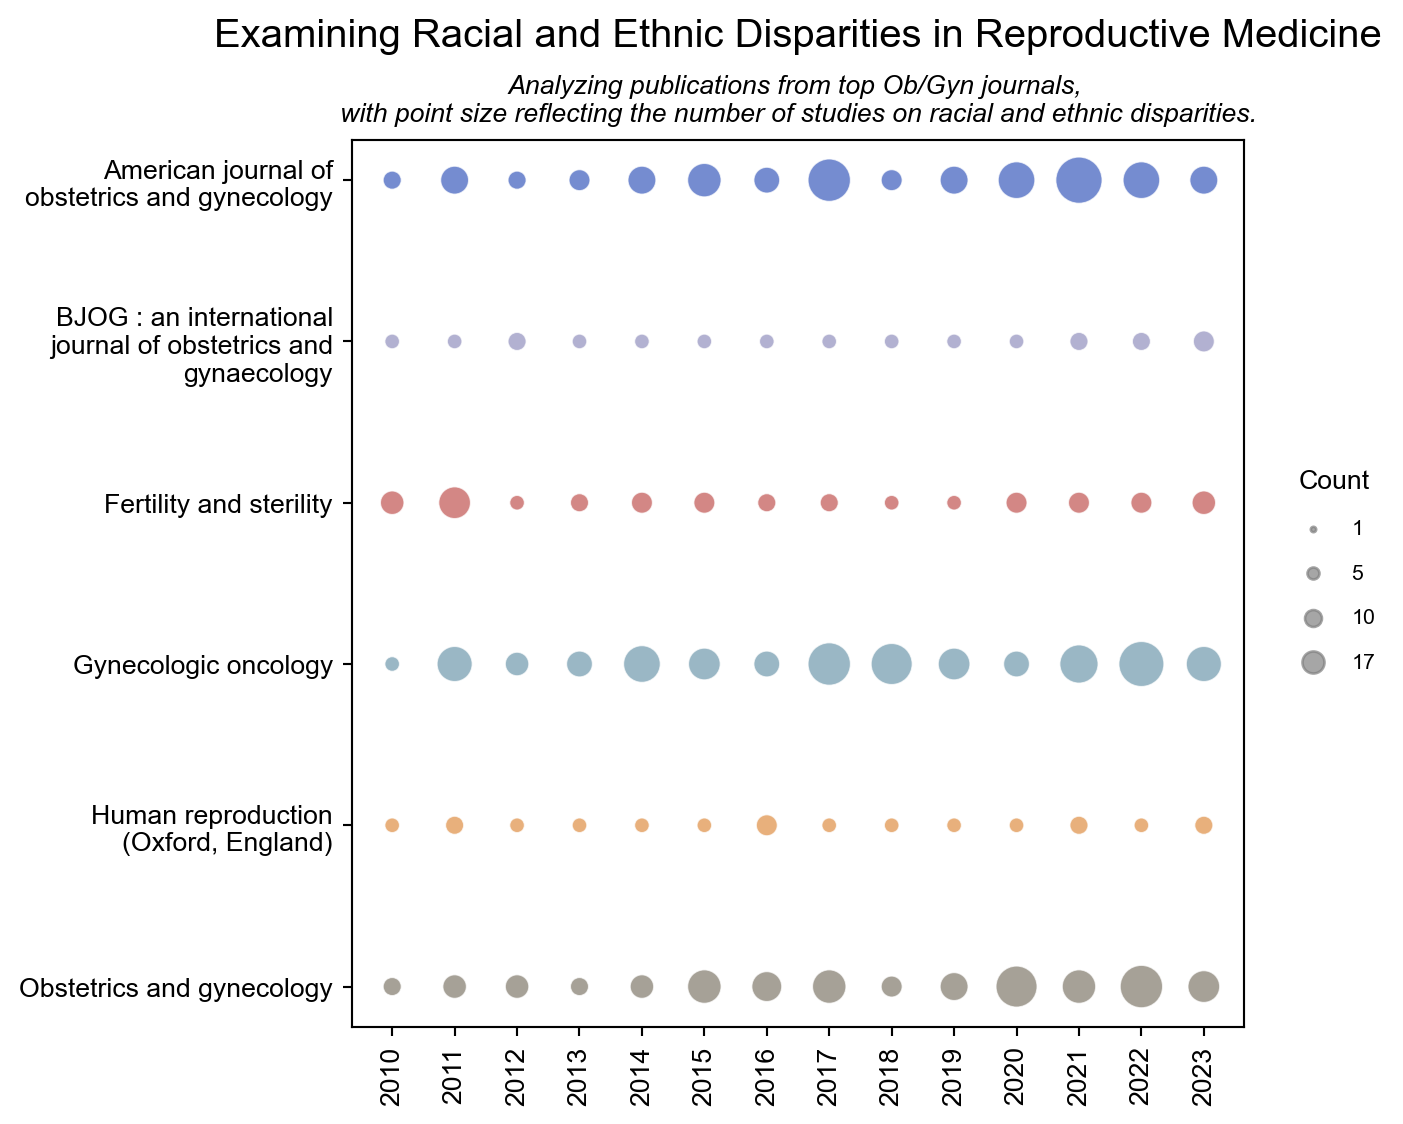
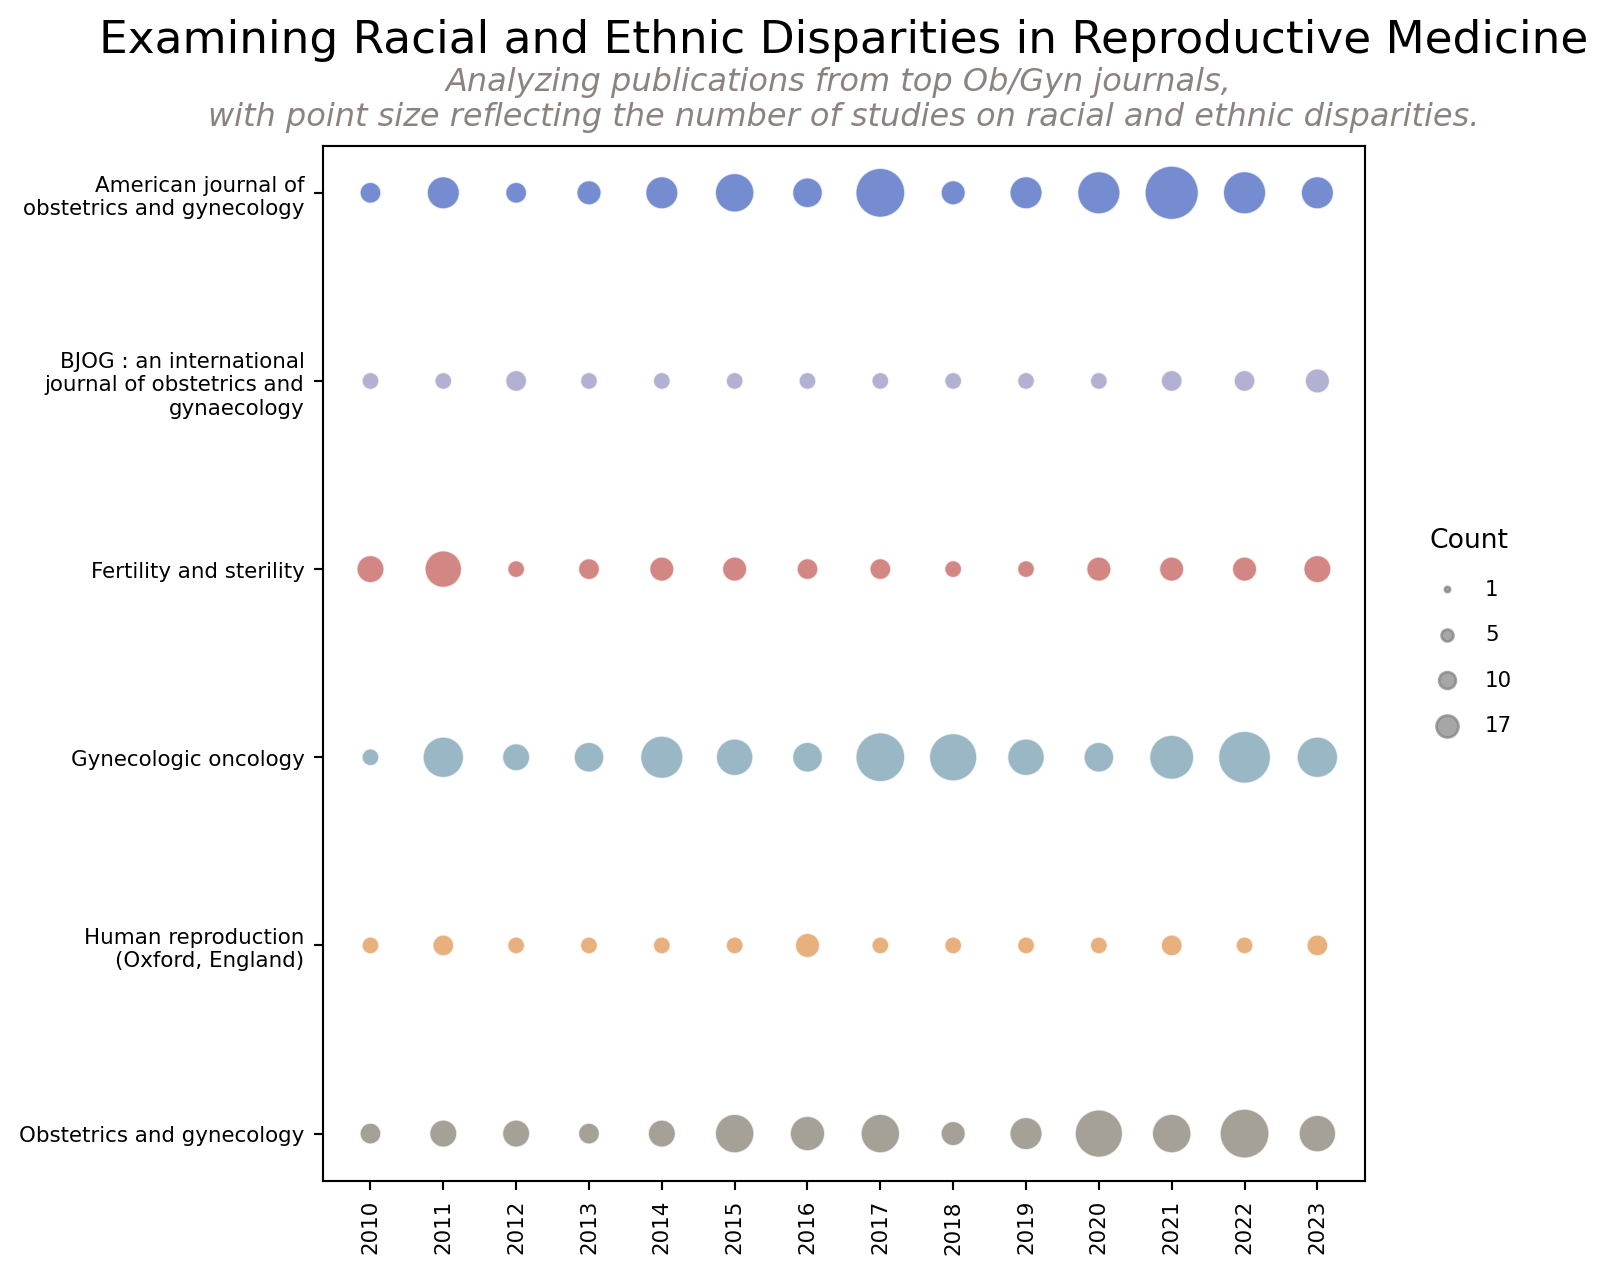
save

diff --git a/20250225/20250225.html b/20250225/20250225.html
@@ -97,7 +97,7 @@ pre > code.sourceCode > span > a:first-child::before { text-decoration: underlin
 </header>
 
 
-<div id="88d33581" class="cell" data-execution_count="1">
+<div id="85ff9130" class="cell" data-execution_count="1">
 <div class="sourceCode cell-code" id="cb1"><pre class="sourceCode python code-with-copy"><code class="sourceCode python"><span id="cb1-1"><a href="#cb1-1" aria-hidden="true" tabindex="-1"></a><span class="im">import</span> pandas <span class="im">as</span> pd</span>
 <span id="cb1-2"><a href="#cb1-2" aria-hidden="true" tabindex="-1"></a><span class="im">import</span> matplotlib.pyplot <span class="im">as</span> plt</span>
 <span id="cb1-3"><a href="#cb1-3" aria-hidden="true" tabindex="-1"></a><span class="im">import</span> seaborn <span class="im">as</span> sns</span>
@@ -105,11 +105,9 @@ pre > code.sourceCode > span > a:first-child::before { text-decoration: underlin
 <span id="cb1-5"><a href="#cb1-5" aria-hidden="true" tabindex="-1"></a></span>
 <span id="cb1-6"><a href="#cb1-6" aria-hidden="true" tabindex="-1"></a><span class="co"># Load the data </span></span>
 <span id="cb1-7"><a href="#cb1-7" aria-hidden="true" tabindex="-1"></a></span>
-<span id="cb1-8"><a href="#cb1-8" aria-hidden="true" tabindex="-1"></a>df <span class="op">=</span> pd.read_csv(<span class="st">'https://raw.githubusercontent.com/rfordatascience/tidytuesday/main/data/2025/2025-02-25/article_dat.csv'</span>)</span>
-<span id="cb1-9"><a href="#cb1-9" aria-hidden="true" tabindex="-1"></a></span>
-<span id="cb1-10"><a href="#cb1-10" aria-hidden="true" tabindex="-1"></a><span class="co"># model_dat = pd.read_csv('https://raw.githubusercontent.com/rfordatascience/tidytuesday/main/data/2025/2025-02-25/model_dat.csv')</span></span></code><button title="Copy to Clipboard" class="code-copy-button"><i class="bi"></i></button></pre></div>
+<span id="cb1-8"><a href="#cb1-8" aria-hidden="true" tabindex="-1"></a>df <span class="op">=</span> pd.read_csv(<span class="st">'https://raw.githubusercontent.com/rfordatascience/tidytuesday/main/data/2025/2025-02-25/article_dat.csv'</span>)</span></code><button title="Copy to Clipboard" class="code-copy-button"><i class="bi"></i></button></pre></div>
 </div>
-<div id="52529ed1" class="cell" data-execution_count="2">
+<div id="3438b613" class="cell" data-execution_count="2">
 <div class="sourceCode cell-code" id="cb2"><pre class="sourceCode python code-with-copy"><code class="sourceCode python"><span id="cb2-1"><a href="#cb2-1" aria-hidden="true" tabindex="-1"></a><span class="co"># Clean data</span></span>
 <span id="cb2-2"><a href="#cb2-2" aria-hidden="true" tabindex="-1"></a>pub_trends <span class="op">=</span> df.groupby([<span class="st">'year'</span>, <span class="st">'journal'</span>]).size().unstack(fill_value<span class="op">=</span><span class="dv">0</span>)</span>
 <span id="cb2-3"><a href="#cb2-3" aria-hidden="true" tabindex="-1"></a>df_flat <span class="op">=</span> pub_trends.reset_index()</span>
@@ -122,69 +120,72 @@ pre > code.sourceCode > span > a:first-child::before { text-decoration: underlin
 <span id="cb2-10"><a href="#cb2-10" aria-hidden="true" tabindex="-1"></a></span>
 <span id="cb2-11"><a href="#cb2-11" aria-hidden="true" tabindex="-1"></a>my_col <span class="op">=</span> [<span class="st">'#3a5cbc'</span>, <span class="st">'#9291be'</span>, <span class="st">'#c15451'</span>, <span class="st">'#6F99AD'</span>, <span class="st">'#DF8F44'</span>, <span class="st">'#80796B'</span>]</span>
 <span id="cb2-12"><a href="#cb2-12" aria-hidden="true" tabindex="-1"></a></span>
-<span id="cb2-13"><a href="#cb2-13" aria-hidden="true" tabindex="-1"></a><span class="co"># Plot</span></span>
-<span id="cb2-14"><a href="#cb2-14" aria-hidden="true" tabindex="-1"></a>plt.rcParams[<span class="st">"font.family"</span>] <span class="op">=</span> <span class="st">"Arial"</span></span>
-<span id="cb2-15"><a href="#cb2-15" aria-hidden="true" tabindex="-1"></a></span>
+<span id="cb2-13"><a href="#cb2-13" aria-hidden="true" tabindex="-1"></a></span>
+<span id="cb2-14"><a href="#cb2-14" aria-hidden="true" tabindex="-1"></a><span class="co"># Plot</span></span>
+<span id="cb2-15"><a href="#cb2-15" aria-hidden="true" tabindex="-1"></a>plt.figure(figsize<span class="op">=</span>(<span class="dv">7</span>,<span class="dv">7</span>))</span>
 <span id="cb2-16"><a href="#cb2-16" aria-hidden="true" tabindex="-1"></a></span>
-<span id="cb2-17"><a href="#cb2-17" aria-hidden="true" tabindex="-1"></a>plt.figure(figsize<span class="op">=</span>(<span class="dv">6</span>,<span class="dv">6</span>))</span>
-<span id="cb2-18"><a href="#cb2-18" aria-hidden="true" tabindex="-1"></a></span>
-<span id="cb2-19"><a href="#cb2-19" aria-hidden="true" tabindex="-1"></a>sns.scatterplot(</span>
-<span id="cb2-20"><a href="#cb2-20" aria-hidden="true" tabindex="-1"></a>    data <span class="op">=</span> df_melted, </span>
-<span id="cb2-21"><a href="#cb2-21" aria-hidden="true" tabindex="-1"></a>    x <span class="op">=</span> <span class="st">"year"</span>, </span>
-<span id="cb2-22"><a href="#cb2-22" aria-hidden="true" tabindex="-1"></a>    y <span class="op">=</span> <span class="st">"journal_wrapped"</span>, </span>
-<span id="cb2-23"><a href="#cb2-23" aria-hidden="true" tabindex="-1"></a>    size <span class="op">=</span> <span class="st">"count"</span>, </span>
-<span id="cb2-24"><a href="#cb2-24" aria-hidden="true" tabindex="-1"></a>    sizes <span class="op">=</span> (<span class="dv">30</span>, <span class="dv">300</span>), </span>
-<span id="cb2-25"><a href="#cb2-25" aria-hidden="true" tabindex="-1"></a>    alpha <span class="op">=</span> <span class="fl">0.7</span>,</span>
-<span id="cb2-26"><a href="#cb2-26" aria-hidden="true" tabindex="-1"></a>    hue <span class="op">=</span> <span class="st">"journal"</span>, </span>
-<span id="cb2-27"><a href="#cb2-27" aria-hidden="true" tabindex="-1"></a>    palette <span class="op">=</span> my_col,</span>
-<span id="cb2-28"><a href="#cb2-28" aria-hidden="true" tabindex="-1"></a>    legend <span class="op">=</span> <span class="va">False</span></span>
-<span id="cb2-29"><a href="#cb2-29" aria-hidden="true" tabindex="-1"></a>)</span>
-<span id="cb2-30"><a href="#cb2-30" aria-hidden="true" tabindex="-1"></a></span>
-<span id="cb2-31"><a href="#cb2-31" aria-hidden="true" tabindex="-1"></a><span class="co"># Add labels and title</span></span>
-<span id="cb2-32"><a href="#cb2-32" aria-hidden="true" tabindex="-1"></a>plt.xlabel(<span class="st">""</span>)</span>
-<span id="cb2-33"><a href="#cb2-33" aria-hidden="true" tabindex="-1"></a>plt.ylabel(<span class="st">""</span>)</span>
-<span id="cb2-34"><a href="#cb2-34" aria-hidden="true" tabindex="-1"></a>plt.title(</span>
-<span id="cb2-35"><a href="#cb2-35" aria-hidden="true" tabindex="-1"></a>    <span class="st">"Examining Racial and Ethnic Disparities in Reproductive Medicine"</span>, </span>
-<span id="cb2-36"><a href="#cb2-36" aria-hidden="true" tabindex="-1"></a>    fontsize <span class="op">=</span> <span class="dv">15</span>,</span>
-<span id="cb2-37"><a href="#cb2-37" aria-hidden="true" tabindex="-1"></a>    pad <span class="op">=</span> <span class="dv">35</span>,</span>
-<span id="cb2-38"><a href="#cb2-38" aria-hidden="true" tabindex="-1"></a>    x <span class="op">=</span> <span class="fl">0.5</span></span>
-<span id="cb2-39"><a href="#cb2-39" aria-hidden="true" tabindex="-1"></a>    )</span>
-<span id="cb2-40"><a href="#cb2-40" aria-hidden="true" tabindex="-1"></a></span>
-<span id="cb2-41"><a href="#cb2-41" aria-hidden="true" tabindex="-1"></a><span class="co"># Add the subtitle for clarification</span></span>
-<span id="cb2-42"><a href="#cb2-42" aria-hidden="true" tabindex="-1"></a>plt.text(x <span class="op">=</span> <span class="fl">0.5</span>, y <span class="op">=</span> <span class="fl">1.045</span>, </span>
-<span id="cb2-43"><a href="#cb2-43" aria-hidden="true" tabindex="-1"></a>        s <span class="op">=</span> <span class="st">"Analyzing publications from top Ob/Gyn journals, </span><span class="ch">\n</span><span class="st">with point size reflecting the number of studies on racial and ethnic disparities."</span>, </span>
-<span id="cb2-44"><a href="#cb2-44" aria-hidden="true" tabindex="-1"></a>        ha <span class="op">=</span> <span class="st">'center'</span>, va <span class="op">=</span> <span class="st">'center'</span>, fontsize <span class="op">=</span> <span class="dv">10</span>, style <span class="op">=</span> <span class="st">'italic'</span>, transform <span class="op">=</span> plt.gca().transAxes)</span>
-<span id="cb2-45"><a href="#cb2-45" aria-hidden="true" tabindex="-1"></a></span>
-<span id="cb2-46"><a href="#cb2-46" aria-hidden="true" tabindex="-1"></a></span>
-<span id="cb2-47"><a href="#cb2-47" aria-hidden="true" tabindex="-1"></a><span class="co"># Create dummy scatter plot points for the size legend</span></span>
-<span id="cb2-48"><a href="#cb2-48" aria-hidden="true" tabindex="-1"></a>legend_sizes <span class="op">=</span> [<span class="dv">1</span>, <span class="dv">5</span>, <span class="dv">10</span>, <span class="dv">17</span>]  <span class="co"># Example sizes for the legend</span></span>
+<span id="cb2-17"><a href="#cb2-17" aria-hidden="true" tabindex="-1"></a>sns.scatterplot(</span>
+<span id="cb2-18"><a href="#cb2-18" aria-hidden="true" tabindex="-1"></a>    data <span class="op">=</span> df_melted, </span>
+<span id="cb2-19"><a href="#cb2-19" aria-hidden="true" tabindex="-1"></a>    x <span class="op">=</span> <span class="st">"year"</span>, </span>
+<span id="cb2-20"><a href="#cb2-20" aria-hidden="true" tabindex="-1"></a>    y <span class="op">=</span> <span class="st">"journal_wrapped"</span>, </span>
+<span id="cb2-21"><a href="#cb2-21" aria-hidden="true" tabindex="-1"></a>    size <span class="op">=</span> <span class="st">"count"</span>, </span>
+<span id="cb2-22"><a href="#cb2-22" aria-hidden="true" tabindex="-1"></a>    sizes <span class="op">=</span> (<span class="dv">40</span>, <span class="dv">400</span>), </span>
+<span id="cb2-23"><a href="#cb2-23" aria-hidden="true" tabindex="-1"></a>    alpha <span class="op">=</span> <span class="fl">0.7</span>,</span>
+<span id="cb2-24"><a href="#cb2-24" aria-hidden="true" tabindex="-1"></a>    hue <span class="op">=</span> <span class="st">"journal"</span>, </span>
+<span id="cb2-25"><a href="#cb2-25" aria-hidden="true" tabindex="-1"></a>    palette <span class="op">=</span> my_col,</span>
+<span id="cb2-26"><a href="#cb2-26" aria-hidden="true" tabindex="-1"></a>    legend <span class="op">=</span> <span class="va">False</span></span>
+<span id="cb2-27"><a href="#cb2-27" aria-hidden="true" tabindex="-1"></a>)</span>
+<span id="cb2-28"><a href="#cb2-28" aria-hidden="true" tabindex="-1"></a></span>
+<span id="cb2-29"><a href="#cb2-29" aria-hidden="true" tabindex="-1"></a><span class="co"># Add labels and title</span></span>
+<span id="cb2-30"><a href="#cb2-30" aria-hidden="true" tabindex="-1"></a>plt.xlabel(<span class="st">""</span>)</span>
+<span id="cb2-31"><a href="#cb2-31" aria-hidden="true" tabindex="-1"></a>plt.ylabel(<span class="st">""</span>)</span>
+<span id="cb2-32"><a href="#cb2-32" aria-hidden="true" tabindex="-1"></a>plt.title(</span>
+<span id="cb2-33"><a href="#cb2-33" aria-hidden="true" tabindex="-1"></a>    <span class="st">"Examining Racial and Ethnic Disparities in Reproductive Medicine"</span>, </span>
+<span id="cb2-34"><a href="#cb2-34" aria-hidden="true" tabindex="-1"></a>    fontsize <span class="op">=</span> <span class="dv">17</span>,</span>
+<span id="cb2-35"><a href="#cb2-35" aria-hidden="true" tabindex="-1"></a>    pad <span class="op">=</span> <span class="dv">35</span>,</span>
+<span id="cb2-36"><a href="#cb2-36" aria-hidden="true" tabindex="-1"></a>    x <span class="op">=</span> <span class="fl">0.5</span></span>
+<span id="cb2-37"><a href="#cb2-37" aria-hidden="true" tabindex="-1"></a>    )</span>
+<span id="cb2-38"><a href="#cb2-38" aria-hidden="true" tabindex="-1"></a></span>
+<span id="cb2-39"><a href="#cb2-39" aria-hidden="true" tabindex="-1"></a><span class="co"># Add the subtitle for clarification</span></span>
+<span id="cb2-40"><a href="#cb2-40" aria-hidden="true" tabindex="-1"></a>plt.text(x <span class="op">=</span> <span class="fl">0.5</span>, y <span class="op">=</span> <span class="fl">1.045</span>, </span>
+<span id="cb2-41"><a href="#cb2-41" aria-hidden="true" tabindex="-1"></a>        s <span class="op">=</span> <span class="st">"Analyzing publications from top Ob/Gyn journals, </span><span class="ch">\n</span><span class="st">with point size reflecting the number of studies on racial and ethnic disparities."</span>, </span>
+<span id="cb2-42"><a href="#cb2-42" aria-hidden="true" tabindex="-1"></a>        ha <span class="op">=</span> <span class="st">'center'</span>, </span>
+<span id="cb2-43"><a href="#cb2-43" aria-hidden="true" tabindex="-1"></a>        va <span class="op">=</span> <span class="st">'center'</span>, </span>
+<span id="cb2-44"><a href="#cb2-44" aria-hidden="true" tabindex="-1"></a>        fontsize <span class="op">=</span> <span class="dv">12</span>, </span>
+<span id="cb2-45"><a href="#cb2-45" aria-hidden="true" tabindex="-1"></a>        style <span class="op">=</span> <span class="st">'italic'</span>, </span>
+<span id="cb2-46"><a href="#cb2-46" aria-hidden="true" tabindex="-1"></a>        color <span class="op">=</span> <span class="st">"#8C8380"</span>,</span>
+<span id="cb2-47"><a href="#cb2-47" aria-hidden="true" tabindex="-1"></a>        transform <span class="op">=</span> plt.gca().transAxes)</span>
+<span id="cb2-48"><a href="#cb2-48" aria-hidden="true" tabindex="-1"></a></span>
 <span id="cb2-49"><a href="#cb2-49" aria-hidden="true" tabindex="-1"></a></span>
-<span id="cb2-50"><a href="#cb2-50" aria-hidden="true" tabindex="-1"></a><span class="co"># These dummy scatter points are used to create the legend for sizes</span></span>
-<span id="cb2-51"><a href="#cb2-51" aria-hidden="true" tabindex="-1"></a><span class="cf">for</span> size <span class="kw">in</span> legend_sizes:</span>
-<span id="cb2-52"><a href="#cb2-52" aria-hidden="true" tabindex="-1"></a>    plt.scatter([], [], s <span class="op">=</span> size, color <span class="op">=</span> <span class="st">'grey'</span>, alpha <span class="op">=</span> <span class="fl">0.7</span>, label <span class="op">=</span> <span class="ss">f'</span><span class="sc">{</span>size<span class="sc">}</span><span class="ss">'</span>)</span>
-<span id="cb2-53"><a href="#cb2-53" aria-hidden="true" tabindex="-1"></a></span>
-<span id="cb2-54"><a href="#cb2-54" aria-hidden="true" tabindex="-1"></a><span class="co"># Add custom legend for the size (publication count)</span></span>
-<span id="cb2-55"><a href="#cb2-55" aria-hidden="true" tabindex="-1"></a>plt.legend(</span>
-<span id="cb2-56"><a href="#cb2-56" aria-hidden="true" tabindex="-1"></a>    title <span class="op">=</span> <span class="st">'Count'</span>, </span>
-<span id="cb2-57"><a href="#cb2-57" aria-hidden="true" tabindex="-1"></a>    loc <span class="op">=</span> <span class="st">'upper center'</span>, </span>
-<span id="cb2-58"><a href="#cb2-58" aria-hidden="true" tabindex="-1"></a>    bbox_to_anchor <span class="op">=</span> (<span class="fl">1.1</span>, <span class="fl">0.65</span>), </span>
-<span id="cb2-59"><a href="#cb2-59" aria-hidden="true" tabindex="-1"></a>    fontsize <span class="op">=</span> <span class="dv">8</span>, </span>
-<span id="cb2-60"><a href="#cb2-60" aria-hidden="true" tabindex="-1"></a>    ncol <span class="op">=</span> <span class="dv">1</span>, </span>
-<span id="cb2-61"><a href="#cb2-61" aria-hidden="true" tabindex="-1"></a>    frameon <span class="op">=</span> <span class="va">False</span>, </span>
-<span id="cb2-62"><a href="#cb2-62" aria-hidden="true" tabindex="-1"></a>    markerscale <span class="op">=</span> <span class="dv">2</span>, </span>
-<span id="cb2-63"><a href="#cb2-63" aria-hidden="true" tabindex="-1"></a>    labelspacing <span class="op">=</span> <span class="fl">1.2</span></span>
-<span id="cb2-64"><a href="#cb2-64" aria-hidden="true" tabindex="-1"></a>    )</span>
-<span id="cb2-65"><a href="#cb2-65" aria-hidden="true" tabindex="-1"></a></span>
-<span id="cb2-66"><a href="#cb2-66" aria-hidden="true" tabindex="-1"></a><span class="co"># plt.xticks(rotation=45)</span></span>
-<span id="cb2-67"><a href="#cb2-67" aria-hidden="true" tabindex="-1"></a>plt.xticks(ticks<span class="op">=</span><span class="bu">sorted</span>(df[<span class="st">'year'</span>].unique()), rotation <span class="op">=</span> <span class="dv">90</span>, fontsize <span class="op">=</span> <span class="dv">10</span>)</span>
-<span id="cb2-68"><a href="#cb2-68" aria-hidden="true" tabindex="-1"></a>plt.yticks(fontsize <span class="op">=</span> <span class="dv">10</span>)</span>
-<span id="cb2-69"><a href="#cb2-69" aria-hidden="true" tabindex="-1"></a></span>
-<span id="cb2-70"><a href="#cb2-70" aria-hidden="true" tabindex="-1"></a></span>
-<span id="cb2-71"><a href="#cb2-71" aria-hidden="true" tabindex="-1"></a>plt.show()</span></code><button title="Copy to Clipboard" class="code-copy-button"><i class="bi"></i></button></pre></div>
+<span id="cb2-50"><a href="#cb2-50" aria-hidden="true" tabindex="-1"></a><span class="co"># Create dummy scatter plot points for the size legend</span></span>
+<span id="cb2-51"><a href="#cb2-51" aria-hidden="true" tabindex="-1"></a>legend_sizes <span class="op">=</span> [<span class="dv">1</span>, <span class="dv">5</span>, <span class="dv">10</span>, <span class="dv">17</span>]  <span class="co"># Example sizes for the legend</span></span>
+<span id="cb2-52"><a href="#cb2-52" aria-hidden="true" tabindex="-1"></a></span>
+<span id="cb2-53"><a href="#cb2-53" aria-hidden="true" tabindex="-1"></a><span class="co"># These dummy scatter points are used to create the legend for sizes</span></span>
+<span id="cb2-54"><a href="#cb2-54" aria-hidden="true" tabindex="-1"></a><span class="cf">for</span> size <span class="kw">in</span> legend_sizes:</span>
+<span id="cb2-55"><a href="#cb2-55" aria-hidden="true" tabindex="-1"></a>    plt.scatter([], [], s <span class="op">=</span> size, color <span class="op">=</span> <span class="st">'grey'</span>, alpha <span class="op">=</span> <span class="fl">0.7</span>, label <span class="op">=</span> <span class="ss">f'</span><span class="sc">{</span>size<span class="sc">}</span><span class="ss">'</span>)</span>
+<span id="cb2-56"><a href="#cb2-56" aria-hidden="true" tabindex="-1"></a></span>
+<span id="cb2-57"><a href="#cb2-57" aria-hidden="true" tabindex="-1"></a><span class="co"># Add custom legend for the size (publication count)</span></span>
+<span id="cb2-58"><a href="#cb2-58" aria-hidden="true" tabindex="-1"></a>plt.legend(</span>
+<span id="cb2-59"><a href="#cb2-59" aria-hidden="true" tabindex="-1"></a>    title <span class="op">=</span> <span class="st">'Count'</span>, </span>
+<span id="cb2-60"><a href="#cb2-60" aria-hidden="true" tabindex="-1"></a>    loc <span class="op">=</span> <span class="st">'upper center'</span>, </span>
+<span id="cb2-61"><a href="#cb2-61" aria-hidden="true" tabindex="-1"></a>    bbox_to_anchor <span class="op">=</span> (<span class="fl">1.1</span>, <span class="fl">0.65</span>), </span>
+<span id="cb2-62"><a href="#cb2-62" aria-hidden="true" tabindex="-1"></a>    fontsize <span class="op">=</span> <span class="dv">8</span>, </span>
+<span id="cb2-63"><a href="#cb2-63" aria-hidden="true" tabindex="-1"></a>    ncol <span class="op">=</span> <span class="dv">1</span>, </span>
+<span id="cb2-64"><a href="#cb2-64" aria-hidden="true" tabindex="-1"></a>    frameon <span class="op">=</span> <span class="va">False</span>, </span>
+<span id="cb2-65"><a href="#cb2-65" aria-hidden="true" tabindex="-1"></a>    markerscale <span class="op">=</span> <span class="dv">2</span>, </span>
+<span id="cb2-66"><a href="#cb2-66" aria-hidden="true" tabindex="-1"></a>    labelspacing <span class="op">=</span> <span class="fl">1.2</span></span>
+<span id="cb2-67"><a href="#cb2-67" aria-hidden="true" tabindex="-1"></a>    )</span>
+<span id="cb2-68"><a href="#cb2-68" aria-hidden="true" tabindex="-1"></a></span>
+<span id="cb2-69"><a href="#cb2-69" aria-hidden="true" tabindex="-1"></a><span class="co"># plt.xticks(rotation=45)</span></span>
+<span id="cb2-70"><a href="#cb2-70" aria-hidden="true" tabindex="-1"></a>plt.xticks(ticks<span class="op">=</span><span class="bu">sorted</span>(df[<span class="st">'year'</span>].unique()), rotation <span class="op">=</span> <span class="dv">90</span>, fontsize <span class="op">=</span> <span class="dv">8</span>)</span>
+<span id="cb2-71"><a href="#cb2-71" aria-hidden="true" tabindex="-1"></a>plt.yticks(fontsize <span class="op">=</span> <span class="dv">8</span>)</span>
+<span id="cb2-72"><a href="#cb2-72" aria-hidden="true" tabindex="-1"></a></span>
+<span id="cb2-73"><a href="#cb2-73" aria-hidden="true" tabindex="-1"></a></span>
+<span id="cb2-74"><a href="#cb2-74" aria-hidden="true" tabindex="-1"></a>plt.show()</span></code><button title="Copy to Clipboard" class="code-copy-button"><i class="bi"></i></button></pre></div>
 <div class="cell-output cell-output-display">
 <div>
 <figure class="figure">
-<p><img src="20250225_files/figure-html/cell-3-output-1.png" width="702" height="562" class="figure-img"></p>
+<p><img src="20250225_files/figure-html/cell-3-output-1.png" width="804" height="637" class="figure-img"></p>
 </figure>
 </div>
 </div>
